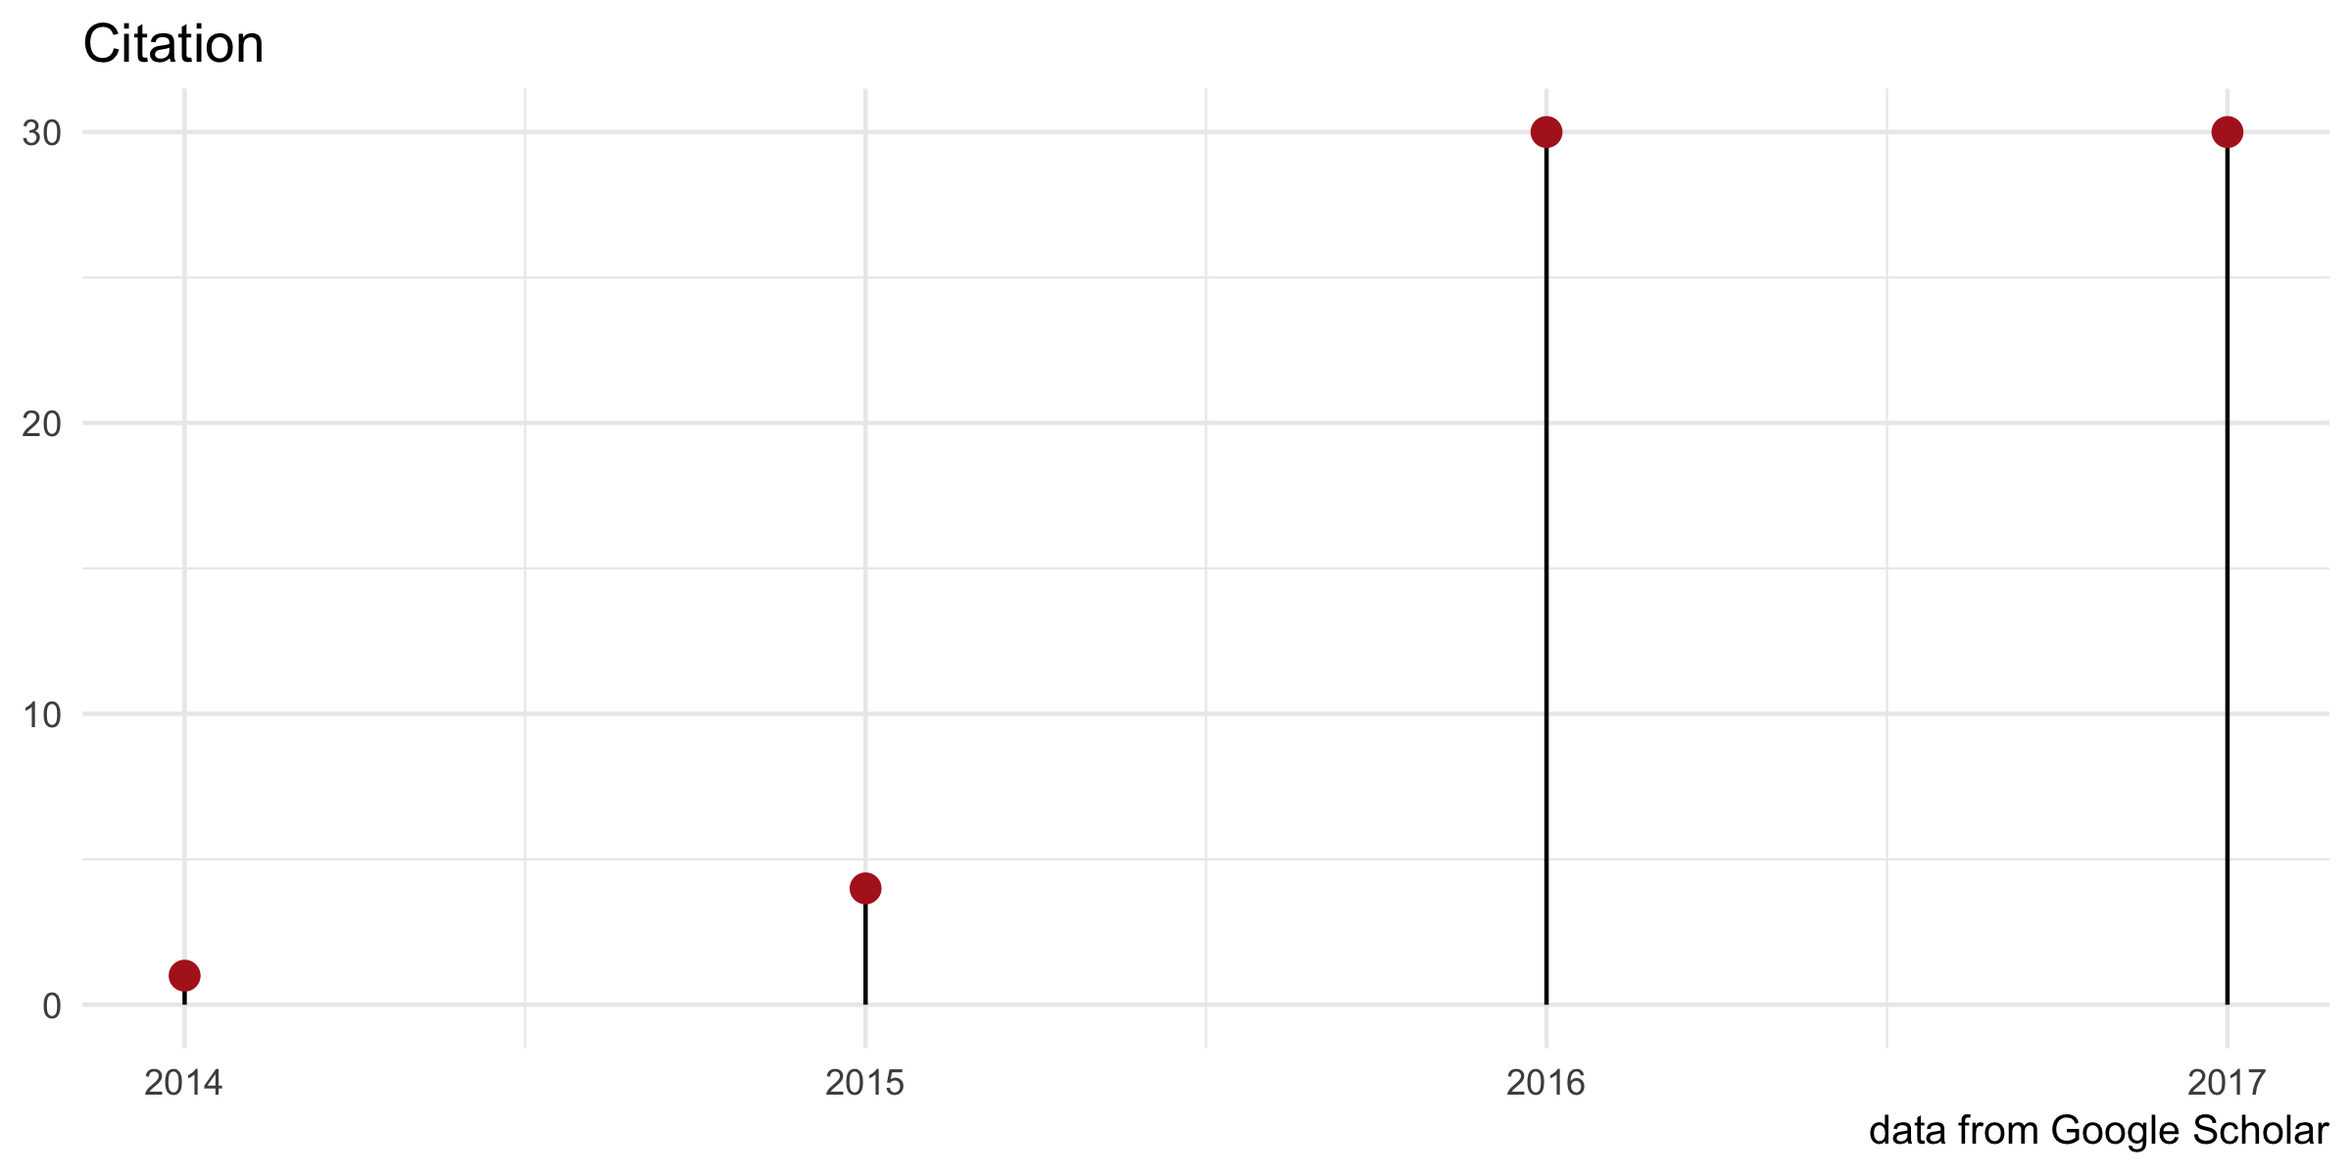
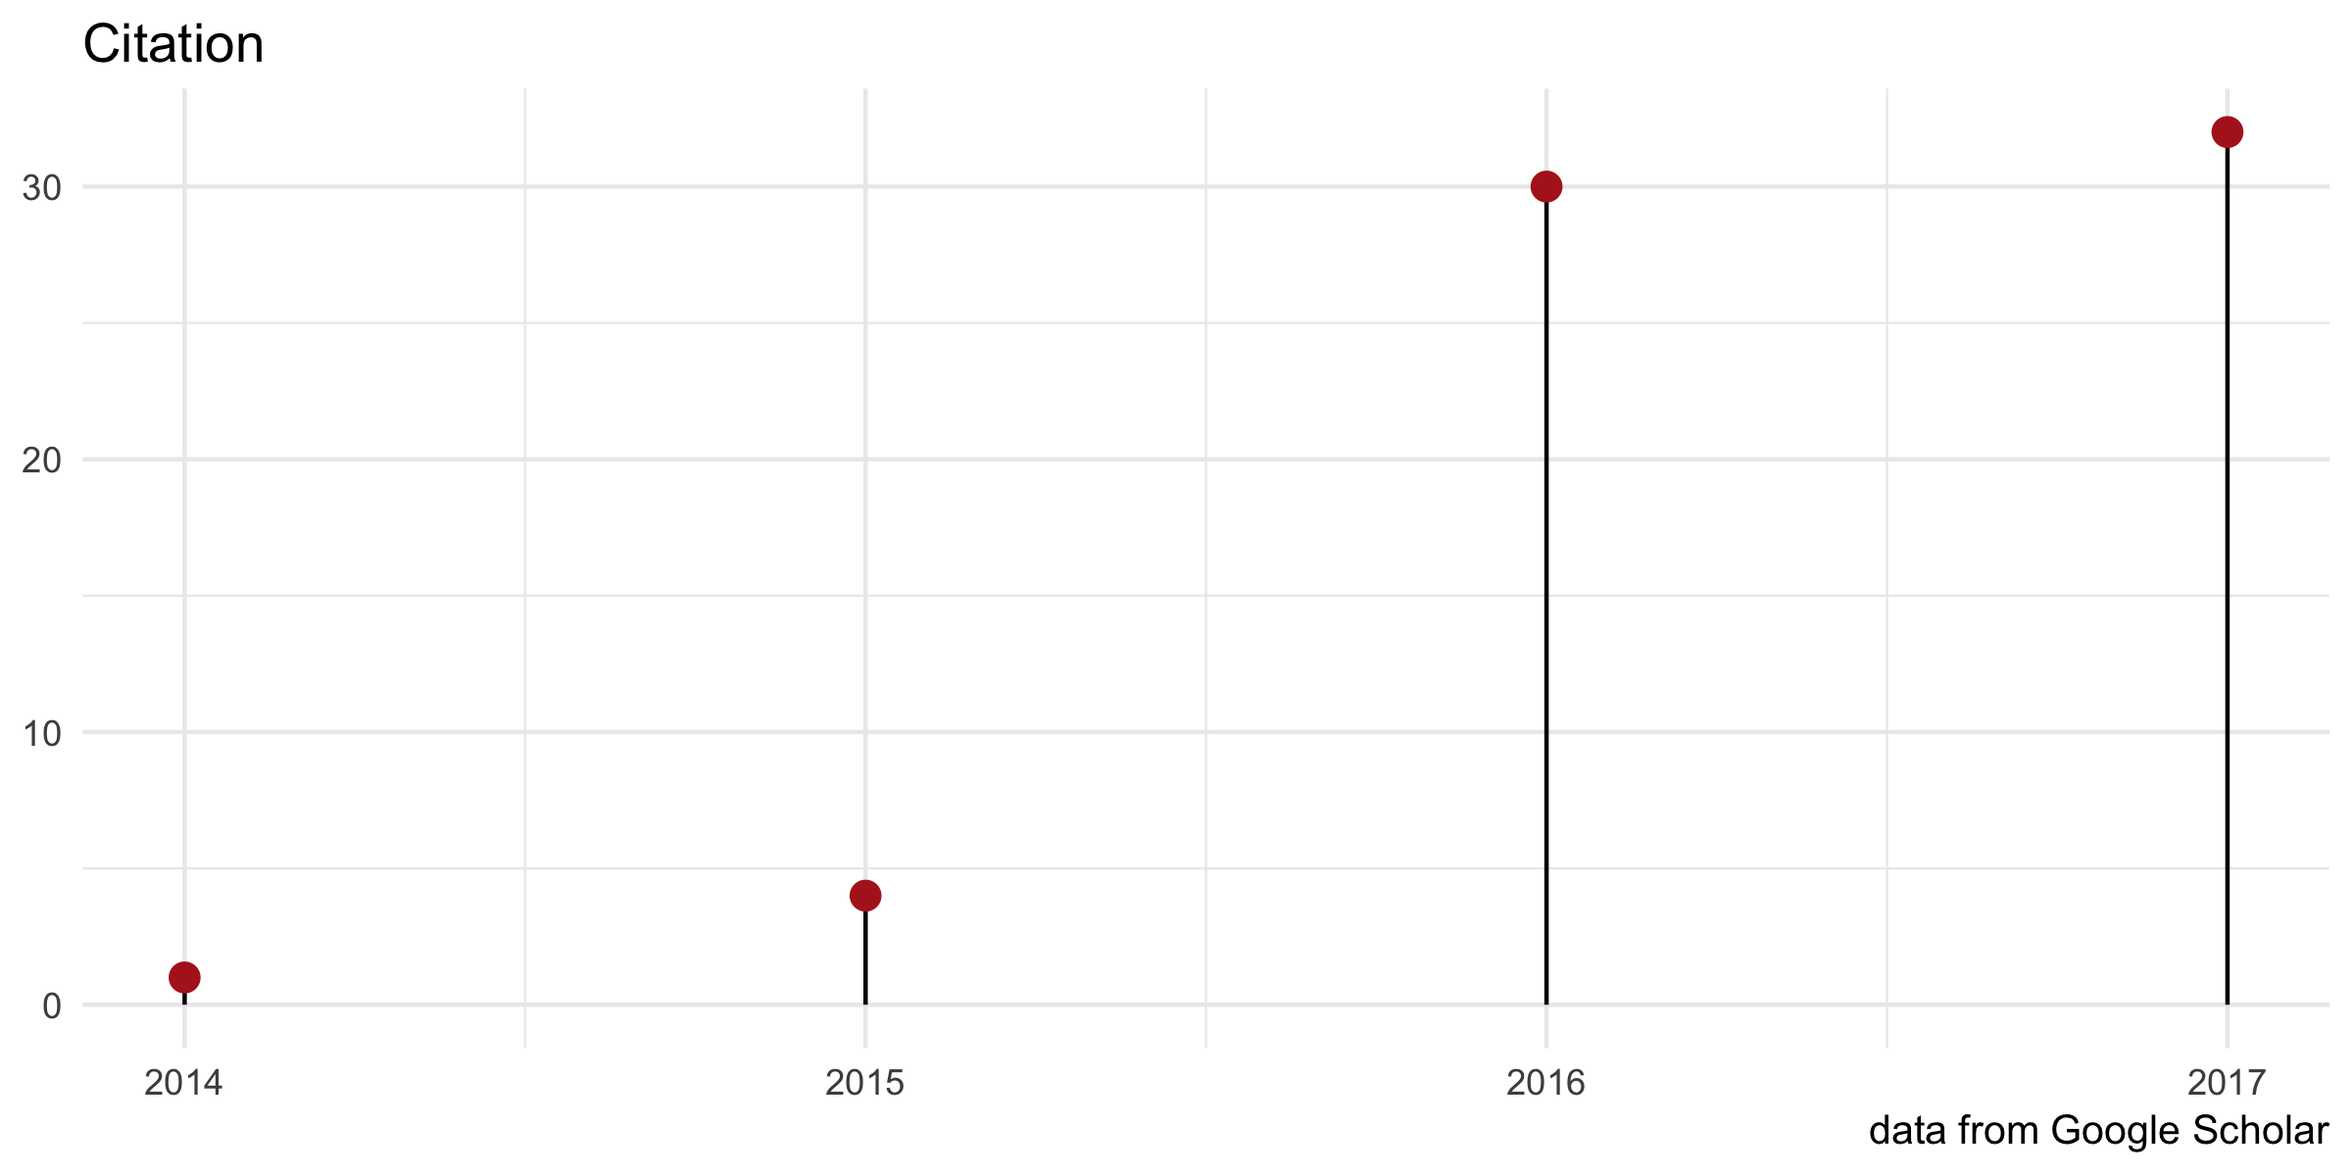
update citation

diff --git a/docs/featuredArticles/index.html b/docs/featuredArticles/index.html
@@ -202,7 +202,7 @@
 <link rel="stylesheet" href="https://guangchuangyu.github.io/css/font-awesome.min.css"></p>
 <p><a href="https://github.com/GuangchuangYu/featured_img">Let us know</a> if you have
 published using <code>ChIPseeker</code> and your publication will be featured here.</p>
-<p><a href="https://scholar.google.com.hk/scholar?oi=bibs&amp;hl=en&amp;cites=12053363057899219488"><img alt="citation" src="https://img.shields.io/badge/cited%20by-60-blue.svg?style=flat" /></a>
+<p><a href="https://scholar.google.com.hk/scholar?oi=bibs&amp;hl=en&amp;cites=12053363057899219488"><img alt="citation" src="https://img.shields.io/badge/cited%20by-67-blue.svg?style=flat" /></a>
 <a href="http://apps.webofknowledge.com/InboundService.do?mode=FullRecord&amp;customersID=RID&amp;IsProductCode=Yes&amp;product=WOS&amp;Init=Yes&amp;Func=Frame&amp;DestFail=http%3A%2F%2Fwww.webofknowledge.com&amp;action=retrieve&amp;SrcApp=RID&amp;SrcAuth=RID&amp;SID=Y2CXu6nry8nDQZcUy1w&amp;UT=WOS%3A000358173500022"><img alt="" src="https://img.shields.io/badge/ESI-Highly%20Cited%20Paper-blue.svg?style=flat" /></a></p>
 <p><link rel='stylesheet' href=https://guangchuangyu.github.io/resume/css/morris.css>
 <script src='https://guangchuangyu.github.io/resume/css/jquery.min.js' type='text/javascript'></script>
@@ -217,12 +217,12 @@ published using <code>ChIPseeker</code> and your publication will be featured he
     height: 300px;
   }<br />
   </style>
-<div id="chartfb315bb38d" class="rChart morris"></p>
+<div id="chart3d96962e0c2" class="rChart morris"></p>
 </div>
 
 <script type='text/javascript'>
     var chartParams = {
- "element": "chartfb315bb38d",
+ "element": "chart3d96962e0c2",
 "width":            800,
 "height":            400,
 "xkey": "year",
@@ -237,7 +237,7 @@ published using <code>ChIPseeker</code> and your publication will be featured he
 },
 {
  "year": 2015,
-"cites":              5,
+"cites":              4,
 "pubid": "9pM33mqn1YgC" 
 },
 {
@@ -247,11 +247,11 @@ published using <code>ChIPseeker</code> and your publication will be featured he
 },
 {
  "year": 2017,
-"cites":             24,
+"cites":             32,
 "pubid": "9pM33mqn1YgC" 
 } 
 ],
-"id": "chartfb315bb38d",
+"id": "chart3d96962e0c2",
 "labels": "cites" 
 },
       chartType = "Bar"
@@ -261,17 +261,21 @@ published using <code>ChIPseeker</code> and your publication will be featured he
 <p>Find out more on <a href="https://scholar.google.com.hk/scholar?oi=bibs&amp;hl=en&amp;cites=12053363057899219488"><i class="ai ai-google-scholar"></i> google
 scholar</a>.</p>
 <h2 id="2017"><i class="fa fa-calendar"></i> 2017</h2>
-<p><a href="http://www.nature.com/ng/journal/vaop/ncurrent/full/ng.3868.html">Lineage-specific functions of TET1 in the postimplantation mouse
-embryo</a>.
-<strong><em>Nature Genetics</em></strong>. 2017</p>
+<p><a href="https://doi.org/10.1038/ncomms16034">BRG1-SWI/SNF-dependent regulation of the Wt1 transcriptional landscape
+mediates epicardial activity during heart development and
+disease</a>. <strong><em>Nature
+Communications</em></strong>. 2017, 8:16034.</p>
 <p><a href="http://www.nature.com/ng/journal/vaop/ncurrent/full/ng.3844.html">Conserved roles of mouse DUX and human DUX4 in activating
 cleavage-stage genes and MERVL/HERVL
 retrotransposons</a>.
-<strong><em>Nature Genetics</em></strong>. 2017</p>
+<strong><em>Nature Genetics</em></strong>. 2017, 49:925-934.</p>
+<p><a href="http://www.nature.com/ng/journal/vaop/ncurrent/full/ng.3868.html">Lineage-specific functions of TET1 in the postimplantation mouse
+embryo</a>.
+<strong><em>Nature Genetics</em></strong>. 2017, 49:1061-1072.</p>
 <p><a href="http://www.nature.com/nsmb/journal/vaop/ncurrent/full/nsmb.3392.html">A cytosolic Ezh1 isoform modulates a PRC2–Ezh1 epigenetic adaptive
 response in postmitotic
 cells</a>.
-<strong><em>Nature Structural &amp; Molecular Biology</em></strong>. 2017</p>
+<strong><em>Nature Structural &amp; Molecular Biology</em></strong>. 2017, 24:444-452.</p>
 <p><a href="http://genomebiology.biomedcentral.com/articles/10.1186/s13059-017-1197-z">H2A monoubiquitination in Arabidopsis thaliana is generally independent
 of LHP1 and PRC2
 activity</a>.

diff --git a/docs/index.html b/docs/index.html
@@ -207,10 +207,10 @@
 
 <p><link rel="stylesheet" href="https://guangchuangyu.github.io/css/font-awesome.min.css">
 <link rel="stylesheet" href="https://guangchuangyu.github.io/css/academicons.min.css"></p>
-<p><a href="https://bioconductor.org/packages/ChIPseeker"><img alt="" src="https://img.shields.io/badge/release%20version-1.12.0-blue.svg?style=flat" /></a>
-<a href="https://github.com/guangchuangyu/ChIPseeker"><img alt="" src="https://img.shields.io/badge/devel%20version-1.13.0-blue.svg?style=flat" /></a>
-<a href="https://bioconductor.org/packages/stats/bioc/ChIPseeker"><img alt="" src="https://img.shields.io/badge/download-14143/total-blue.svg?style=flat" /></a>
-<a href="https://bioconductor.org/packages/stats/bioc/ChIPseeker"><img alt="" src="https://img.shields.io/badge/download-518/month-blue.svg?style=flat" /></a></p>
+<p><a href="https://bioconductor.org/packages/ChIPseeker"><img alt="" src="https://img.shields.io/badge/release%20version-1.12.1-blue.svg?style=flat" /></a>
+<a href="https://github.com/guangchuangyu/ChIPseeker"><img alt="" src="https://img.shields.io/badge/devel%20version-1.13.1-blue.svg?style=flat" /></a>
+<a href="https://bioconductor.org/packages/stats/bioc/ChIPseeker"><img alt="" src="https://img.shields.io/badge/download-15239/total-blue.svg?style=flat" /></a>
+<a href="https://bioconductor.org/packages/stats/bioc/ChIPseeker"><img alt="" src="https://img.shields.io/badge/download-568/month-blue.svg?style=flat" /></a></p>
 <p>This package implements functions to retrieve the nearest genes around
 the peak, annotate genomic region of the peak, statstical methods for
 estimate the significance of overlap among ChIP peak data sets, and
@@ -238,7 +238,7 @@ GitHub</a>.</p>
 <p>Please cite the following article when using <code>ChIPseeker</code>:</p>
 <p><a href="http://dx.doi.org/10.1093/bioinformatics/btv145"><img alt="" src="https://img.shields.io/badge/doi-10.1093/bioinformatics/btv145-blue.svg?style=flat" /></a>
 <a href="https://www.altmetric.com/details/3781087"><img alt="" src="https://img.shields.io/badge/Altmetric-31-blue.svg?style=flat" /></a>
-<a href="https://scholar.google.com.hk/scholar?oi=bibs&amp;hl=en&amp;cites=12053363057899219488"><img alt="citation" src="https://img.shields.io/badge/cited%20by-60-blue.svg?style=flat" /></a>
+<a href="https://scholar.google.com.hk/scholar?oi=bibs&amp;hl=en&amp;cites=12053363057899219488"><img alt="citation" src="https://img.shields.io/badge/cited%20by-67-blue.svg?style=flat" /></a>
 <a href="http://apps.webofknowledge.com/InboundService.do?mode=FullRecord&amp;customersID=RID&amp;IsProductCode=Yes&amp;product=WOS&amp;Init=Yes&amp;Func=Frame&amp;DestFail=http%3A%2F%2Fwww.webofknowledge.com&amp;action=retrieve&amp;SrcApp=RID&amp;SrcAuth=RID&amp;SID=T2TqQabyevZvWQ4YHvJ&amp;UT=WOS%3A000358173500022"><img alt="" src="https://img.shields.io/badge/cited%20in%20Web%20of%20Science%20Core%20Collection--blue.svg?style=flat" /></a>
 <a href="http://apps.webofknowledge.com/InboundService.do?mode=FullRecord&amp;customersID=RID&amp;IsProductCode=Yes&amp;product=WOS&amp;Init=Yes&amp;Func=Frame&amp;DestFail=http%3A%2F%2Fwww.webofknowledge.com&amp;action=retrieve&amp;SrcApp=RID&amp;SrcAuth=RID&amp;SID=Y2CXu6nry8nDQZcUy1w&amp;UT=WOS%3A000358173500022"><img alt="" src="https://img.shields.io/badge/ESI-Highly%20Cited%20Paper-blue.svg?style=flat" /></a></p>
 <p><strong>Yu G</strong>, Wang LG and He QY<sup>*</sup>. ChIPseeker: an R/Bioconductor

diff --git a/README.md b/README.md
@@ -1,12 +1,9 @@
-    ## Warning: Installed Rcpp (0.12.12) different from Rcpp used to build dplyr (0.12.11).
-    ## Please reinstall dplyr to avoid random crashes or undefined behavior.
-
 ChIPseeker: ChIP peak Annotation, Comparison, and Visualization
 ===============================================================
 
 [![](https://img.shields.io/badge/release%20version-1.12.1-green.svg?style=flat)](https://bioconductor.org/packages/ChIPseeker) [![](https://img.shields.io/badge/devel%20version-1.13.1-green.svg?style=flat)](https://github.com/guangchuangyu/ChIPseeker) [![Bioc](http://www.bioconductor.org/shields/years-in-bioc/ChIPseeker.svg)](https://www.bioconductor.org/packages/devel/bioc/html/ChIPseeker.html#since) [![](https://img.shields.io/badge/download-15239/total-blue.svg?style=flat)](https://bioconductor.org/packages/stats/bioc/ChIPseeker) [![](https://img.shields.io/badge/download-568/month-blue.svg?style=flat)](https://bioconductor.org/packages/stats/bioc/ChIPseeker)
 
-[![Project Status: Active - The project has reached a stable, usable state and is being actively developed.](http://www.repostatus.org/badges/latest/active.svg)](http://www.repostatus.org/#active) [![codecov](https://codecov.io/gh/GuangchuangYu/ChIPseeker/branch/master/graph/badge.svg)](https://codecov.io/gh/GuangchuangYu/ChIPseeker/) [![Last-changedate](https://img.shields.io/badge/last%20change-2017--07--20-green.svg)](https://github.com/GuangchuangYu/ChIPseeker/commits/master) [![commit](http://www.bioconductor.org/shields/commits/bioc/ChIPseeker.svg)](https://www.bioconductor.org/packages/devel/bioc/html/ChIPseeker.html#svn_source) [![GitHub forks](https://img.shields.io/github/forks/GuangchuangYu/ChIPseeker.svg)](https://github.com/GuangchuangYu/ChIPseeker/network) [![GitHub stars](https://img.shields.io/github/stars/GuangchuangYu/ChIPseeker.svg)](https://github.com/GuangchuangYu/ChIPseeker/stargazers)
+[![Project Status: Active - The project has reached a stable, usable state and is being actively developed.](http://www.repostatus.org/badges/latest/active.svg)](http://www.repostatus.org/#active) [![codecov](https://codecov.io/gh/GuangchuangYu/ChIPseeker/branch/master/graph/badge.svg)](https://codecov.io/gh/GuangchuangYu/ChIPseeker/) [![Last-changedate](https://img.shields.io/badge/last%20change-2017--07--28-green.svg)](https://github.com/GuangchuangYu/ChIPseeker/commits/master) [![commit](http://www.bioconductor.org/shields/commits/bioc/ChIPseeker.svg)](https://www.bioconductor.org/packages/devel/bioc/html/ChIPseeker.html#svn_source) [![GitHub forks](https://img.shields.io/github/forks/GuangchuangYu/ChIPseeker.svg)](https://github.com/GuangchuangYu/ChIPseeker/network) [![GitHub stars](https://img.shields.io/github/stars/GuangchuangYu/ChIPseeker.svg)](https://github.com/GuangchuangYu/ChIPseeker/stargazers)
 
 [![platform](http://www.bioconductor.org/shields/availability/devel/ChIPseeker.svg)](https://www.bioconductor.org/packages/devel/bioc/html/ChIPseeker.html#archives) [![Build Status](http://www.bioconductor.org/shields/build/devel/bioc/ChIPseeker.svg)](https://bioconductor.org/checkResults/devel/bioc-LATEST/ChIPseeker/) [![Linux/Mac Travis Build Status](https://img.shields.io/travis/GuangchuangYu/ChIPseeker/master.svg?label=Mac%20OSX%20%26%20Linux)](https://travis-ci.org/GuangchuangYu/ChIPseeker) [![AppVeyor Build Status](https://img.shields.io/appveyor/ci/Guangchuangyu/ChIPseeker/master.svg?label=Windows)](https://ci.appveyor.com/project/GuangchuangYu/ChIPseeker)
 
@@ -32,7 +29,7 @@ Please cite the following article when using `ChIPseeker`:
 
 ### Citation
 
-[![citation](https://img.shields.io/badge/cited%20by-65-green.svg?style=flat)](https://scholar.google.com.hk/scholar?oi=bibs&hl=en&cites=12053363057899219488)
+[![citation](https://img.shields.io/badge/cited%20by-67-green.svg?style=flat)](https://scholar.google.com.hk/scholar?oi=bibs&hl=en&cites=12053363057899219488)
 
 ![](https://img.shields.io/badge/ESI-Highly%20Cited%20Paper-green.svg?style=flat)
 

diff --git a/mkdocs/docs/featuredArticles.md b/mkdocs/docs/featuredArticles.md
@@ -25,7 +25,7 @@ output:
 [Let us know](https://github.com/GuangchuangYu/featured_img) if you have
 published using `ChIPseeker` and your publication will be featured here.
 
-[![citation](https://img.shields.io/badge/cited%20by-60-blue.svg?style=flat)](https://scholar.google.com.hk/scholar?oi=bibs&hl=en&cites=12053363057899219488)
+[![citation](https://img.shields.io/badge/cited%20by-67-blue.svg?style=flat)](https://scholar.google.com.hk/scholar?oi=bibs&hl=en&cites=12053363057899219488)
 [![](https://img.shields.io/badge/ESI-Highly%20Cited%20Paper-blue.svg?style=flat)](http://apps.webofknowledge.com/InboundService.do?mode=FullRecord&customersID=RID&IsProductCode=Yes&product=WOS&Init=Yes&Func=Frame&DestFail=http%3A%2F%2Fwww.webofknowledge.com&action=retrieve&SrcApp=RID&SrcAuth=RID&SID=Y2CXu6nry8nDQZcUy1w&UT=WOS%3A000358173500022)
 
 <link rel='stylesheet' href=https://guangchuangyu.github.io/resume/css/morris.css>
@@ -41,13 +41,13 @@ published using `ChIPseeker` and your publication will be featured here.
     height: 300px;
   }  
   </style>
-<div id="chartfb315bb38d" class="rChart morris">
+<div id="chart3d96962e0c2" class="rChart morris">
 
 </div>
 
 <script type='text/javascript'>
     var chartParams = {
- "element": "chartfb315bb38d",
+ "element": "chart3d96962e0c2",
 "width":            800,
 "height":            400,
 "xkey": "year",
@@ -62,7 +62,7 @@ published using `ChIPseeker` and your publication will be featured here.
 },
 {
  "year": 2015,
-"cites":              5,
+"cites":              4,
 "pubid": "9pM33mqn1YgC" 
 },
 {
@@ -72,11 +72,11 @@ published using `ChIPseeker` and your publication will be featured here.
 },
 {
  "year": 2017,
-"cites":             24,
+"cites":             32,
 "pubid": "9pM33mqn1YgC" 
 } 
 ],
-"id": "chartfb315bb38d",
+"id": "chart3d96962e0c2",
 "labels": "cites" 
 },
       chartType = "Bar"
@@ -88,19 +88,24 @@ scholar](https://scholar.google.com.hk/scholar?oi=bibs&hl=en&cites=1205336305789
 <i class="fa fa-calendar"></i> 2017
 -----------------------------------
 
-[Lineage-specific functions of TET1 in the postimplantation mouse
-embryo](http://www.nature.com/ng/journal/vaop/ncurrent/full/ng.3868.html).
-***Nature Genetics***. 2017
+[BRG1-SWI/SNF-dependent regulation of the Wt1 transcriptional landscape
+mediates epicardial activity during heart development and
+disease](https://doi.org/10.1038/ncomms16034). ***Nature
+Communications***. 2017, 8:16034.
 
 [Conserved roles of mouse DUX and human DUX4 in activating
 cleavage-stage genes and MERVL/HERVL
 retrotransposons](http://www.nature.com/ng/journal/vaop/ncurrent/full/ng.3844.html).
-***Nature Genetics***. 2017
+***Nature Genetics***. 2017, 49:925-934.
+
+[Lineage-specific functions of TET1 in the postimplantation mouse
+embryo](http://www.nature.com/ng/journal/vaop/ncurrent/full/ng.3868.html).
+***Nature Genetics***. 2017, 49:1061-1072.
 
 [A cytosolic Ezh1 isoform modulates a PRC2–Ezh1 epigenetic adaptive
 response in postmitotic
 cells](http://www.nature.com/nsmb/journal/vaop/ncurrent/full/nsmb.3392.html).
-***Nature Structural & Molecular Biology***. 2017
+***Nature Structural & Molecular Biology***. 2017, 24:444-452.
 
 [H2A monoubiquitination in Arabidopsis thaliana is generally independent
 of LHP1 and PRC2

diff --git a/mkdocs/docs/index.md b/mkdocs/docs/index.md
@@ -25,10 +25,10 @@ ChIPseeker: ChIP peak Annotation, Comparison, and Visualization
 <link rel="stylesheet" href="https://guangchuangyu.github.io/css/font-awesome.min.css">
 <link rel="stylesheet" href="https://guangchuangyu.github.io/css/academicons.min.css">
 
-[![](https://img.shields.io/badge/release%20version-1.12.0-blue.svg?style=flat)](https://bioconductor.org/packages/ChIPseeker)
-[![](https://img.shields.io/badge/devel%20version-1.13.0-blue.svg?style=flat)](https://github.com/guangchuangyu/ChIPseeker)
-[![](https://img.shields.io/badge/download-14143/total-blue.svg?style=flat)](https://bioconductor.org/packages/stats/bioc/ChIPseeker)
-[![](https://img.shields.io/badge/download-518/month-blue.svg?style=flat)](https://bioconductor.org/packages/stats/bioc/ChIPseeker)
+[![](https://img.shields.io/badge/release%20version-1.12.1-blue.svg?style=flat)](https://bioconductor.org/packages/ChIPseeker)
+[![](https://img.shields.io/badge/devel%20version-1.13.1-blue.svg?style=flat)](https://github.com/guangchuangyu/ChIPseeker)
+[![](https://img.shields.io/badge/download-15239/total-blue.svg?style=flat)](https://bioconductor.org/packages/stats/bioc/ChIPseeker)
+[![](https://img.shields.io/badge/download-568/month-blue.svg?style=flat)](https://bioconductor.org/packages/stats/bioc/ChIPseeker)
 
 This package implements functions to retrieve the nearest genes around
 the peak, annotate genomic region of the peak, statstical methods for
@@ -66,7 +66,7 @@ Please cite the following article when using `ChIPseeker`:
 
 [![](https://img.shields.io/badge/doi-10.1093/bioinformatics/btv145-blue.svg?style=flat)](http://dx.doi.org/10.1093/bioinformatics/btv145)
 [![](https://img.shields.io/badge/Altmetric-31-blue.svg?style=flat)](https://www.altmetric.com/details/3781087)
-[![citation](https://img.shields.io/badge/cited%20by-60-blue.svg?style=flat)](https://scholar.google.com.hk/scholar?oi=bibs&hl=en&cites=12053363057899219488)
+[![citation](https://img.shields.io/badge/cited%20by-67-blue.svg?style=flat)](https://scholar.google.com.hk/scholar?oi=bibs&hl=en&cites=12053363057899219488)
 [![](https://img.shields.io/badge/cited%20in%20Web%20of%20Science%20Core%20Collection--blue.svg?style=flat)](http://apps.webofknowledge.com/InboundService.do?mode=FullRecord&customersID=RID&IsProductCode=Yes&product=WOS&Init=Yes&Func=Frame&DestFail=http%3A%2F%2Fwww.webofknowledge.com&action=retrieve&SrcApp=RID&SrcAuth=RID&SID=T2TqQabyevZvWQ4YHvJ&UT=WOS%3A000358173500022)
 [![](https://img.shields.io/badge/ESI-Highly%20Cited%20Paper-blue.svg?style=flat)](http://apps.webofknowledge.com/InboundService.do?mode=FullRecord&customersID=RID&IsProductCode=Yes&product=WOS&Init=Yes&Func=Frame&DestFail=http%3A%2F%2Fwww.webofknowledge.com&action=retrieve&SrcApp=RID&SrcAuth=RID&SID=Y2CXu6nry8nDQZcUy1w&UT=WOS%3A000358173500022)
 
